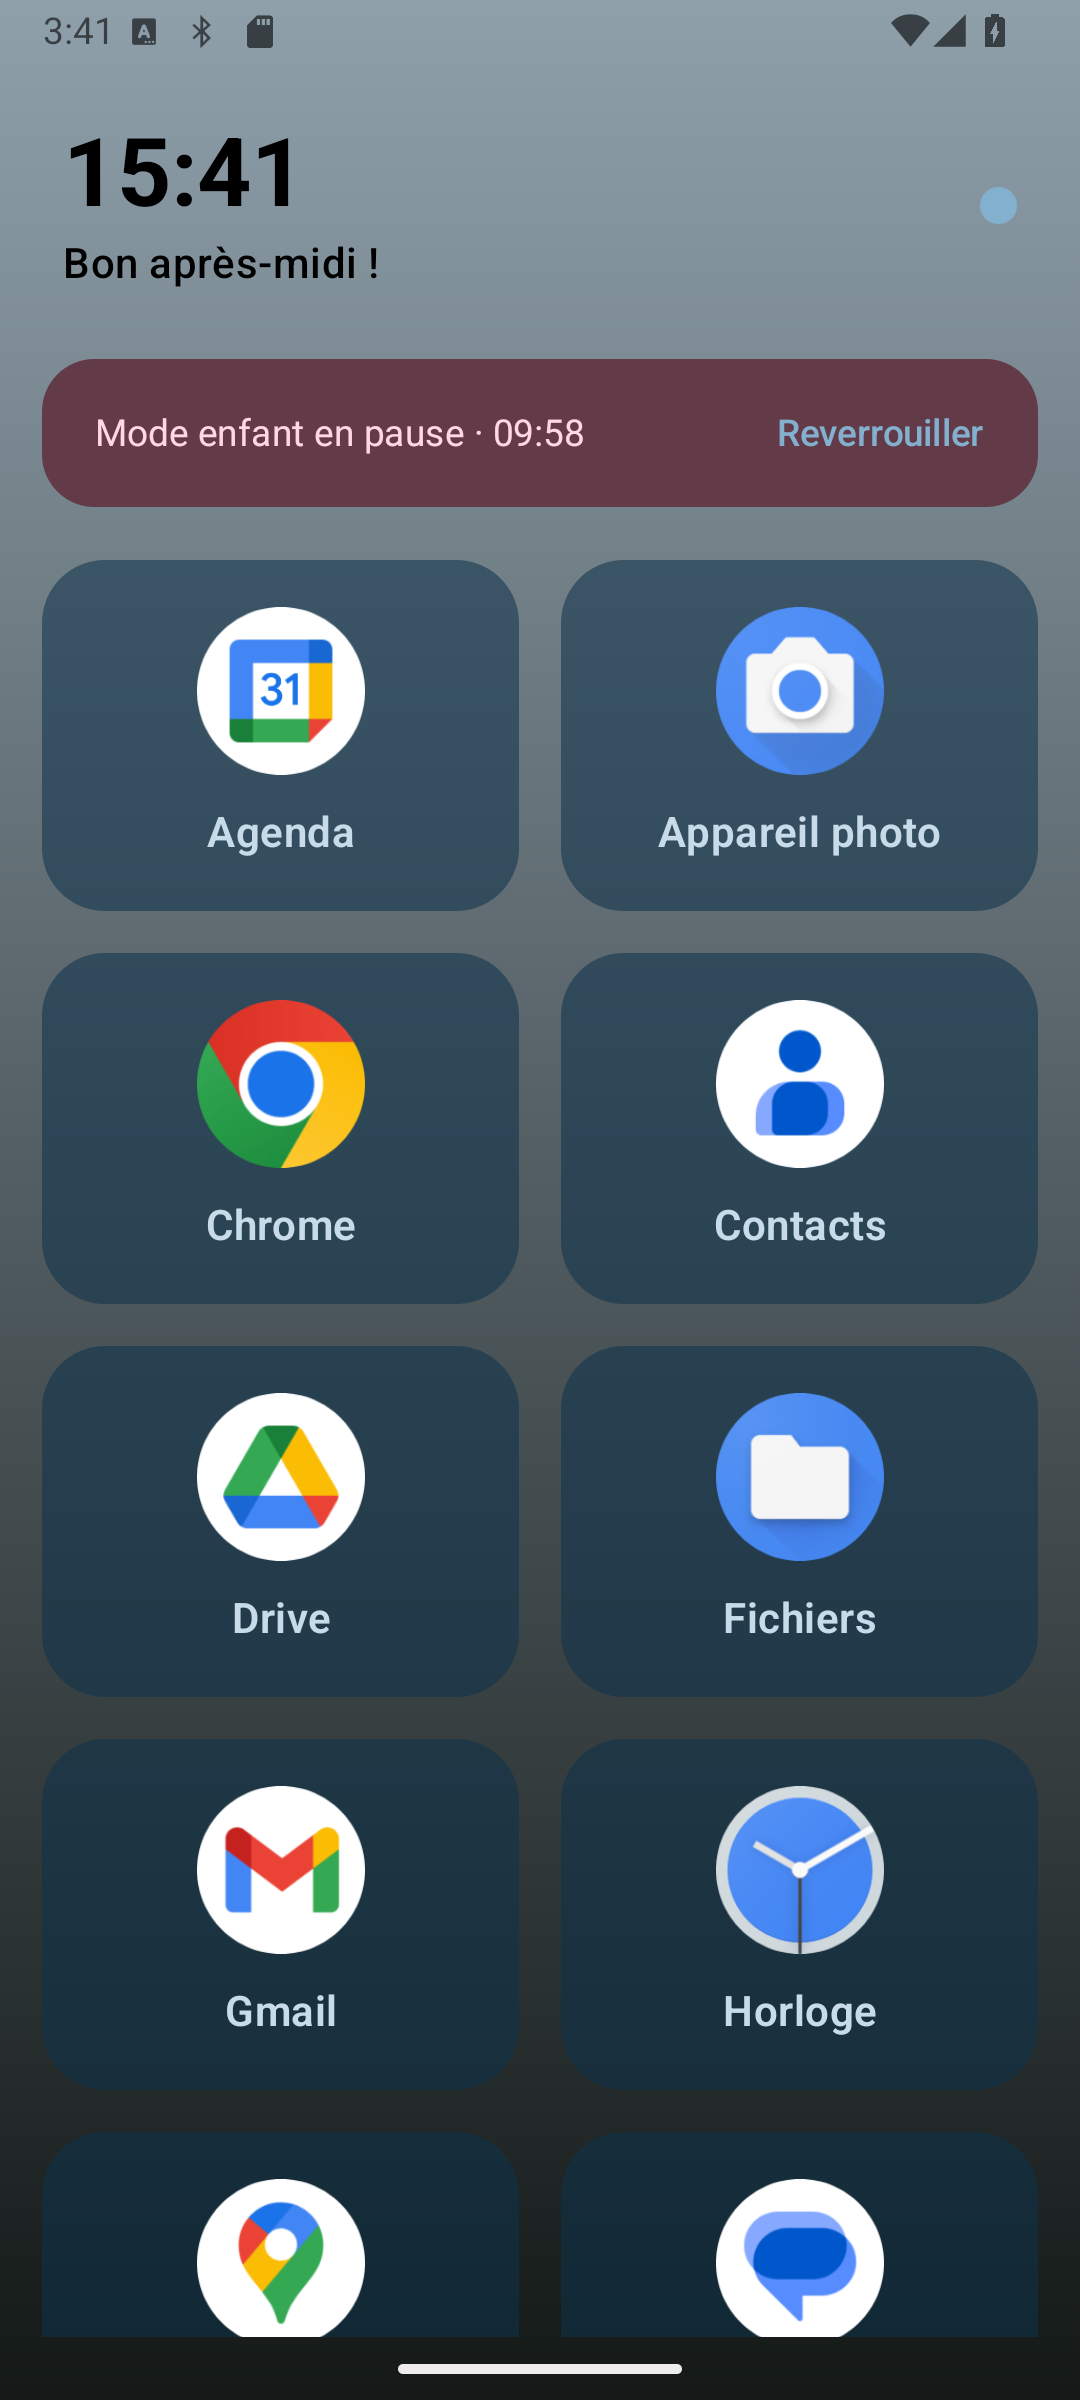
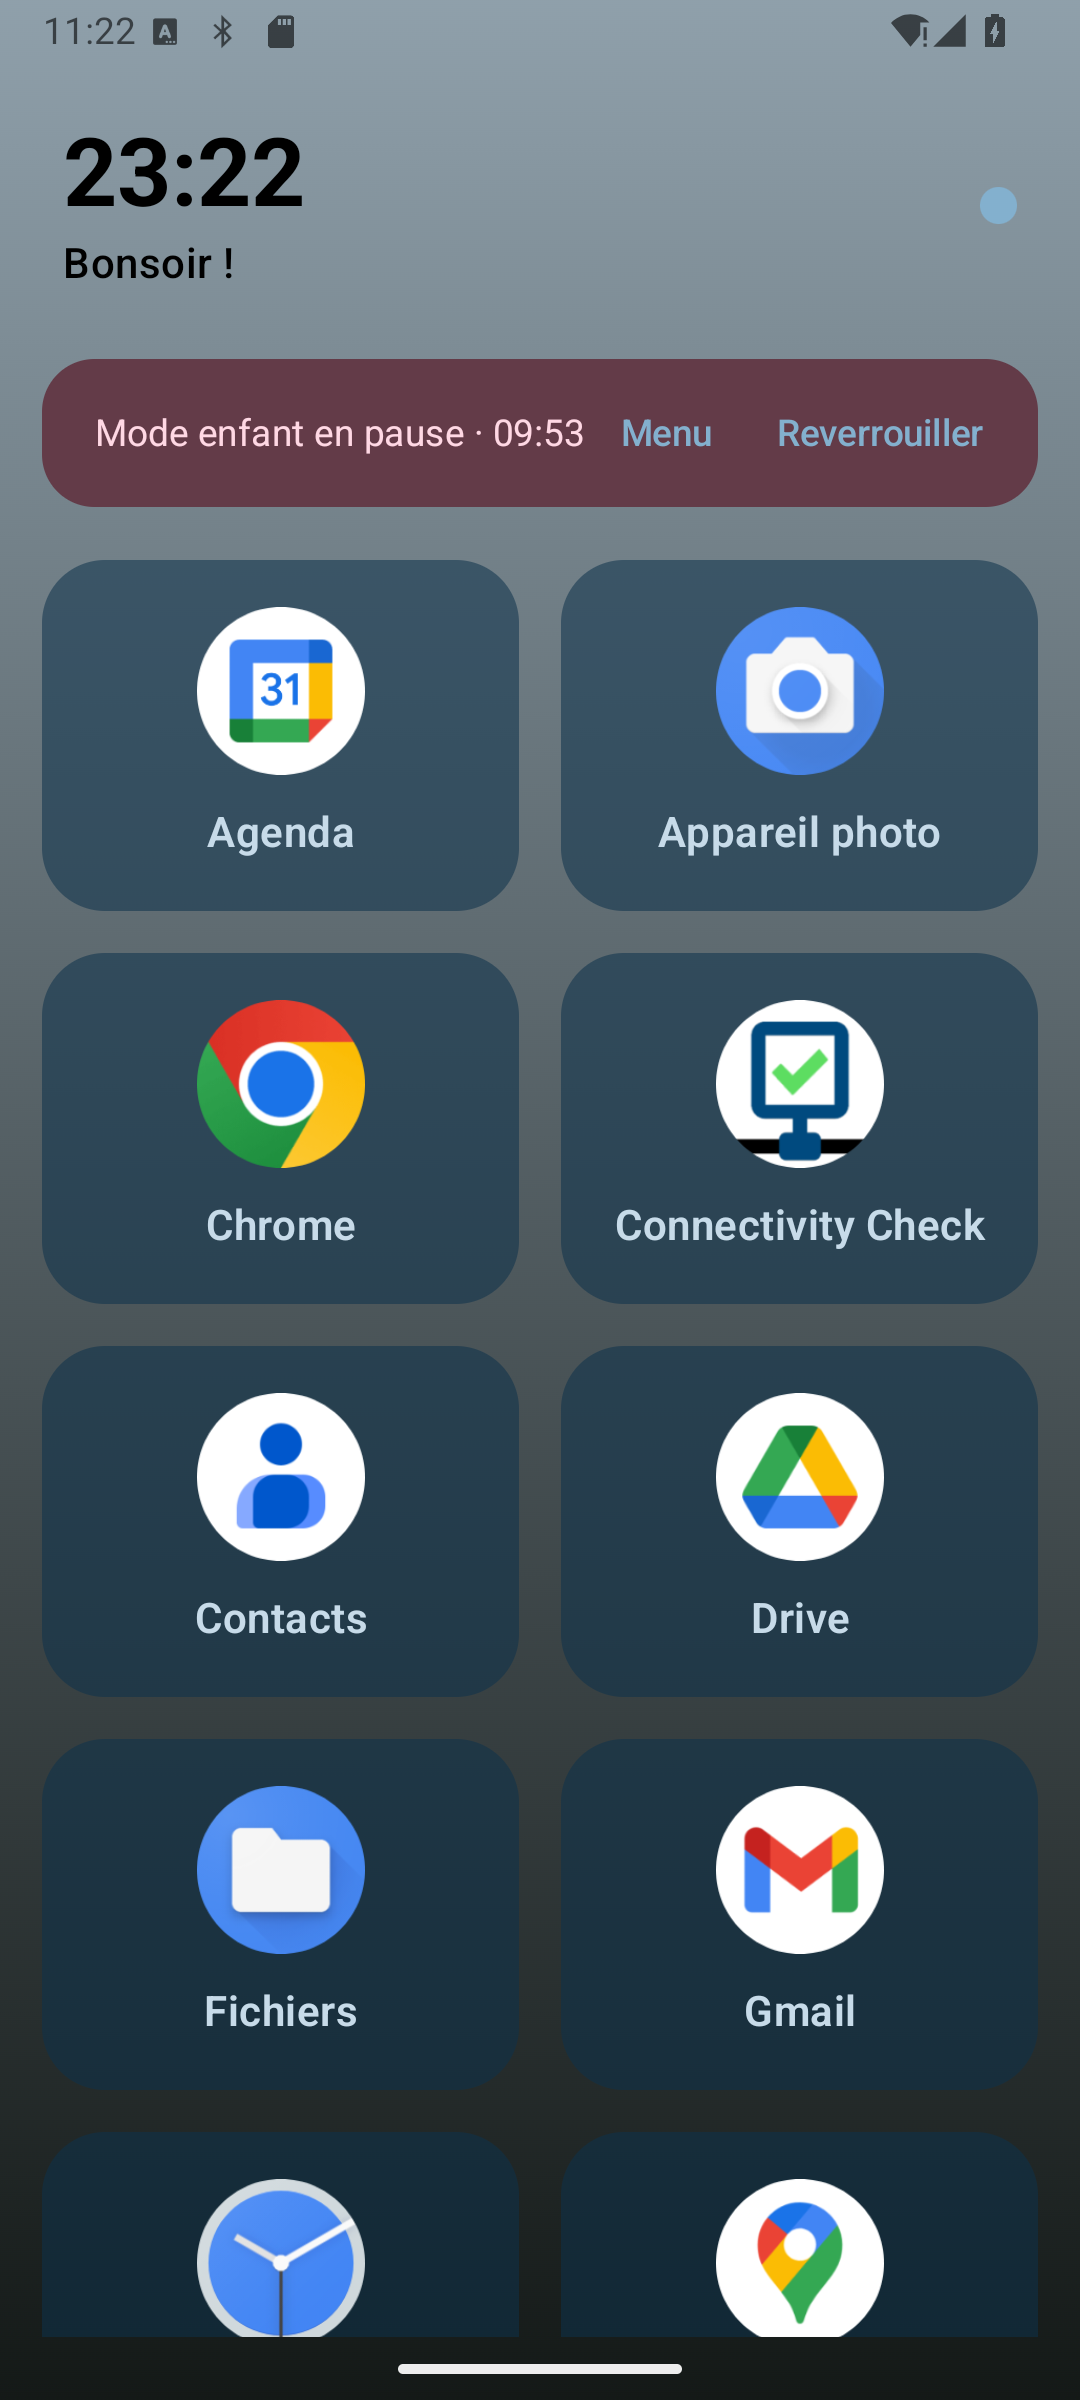
docs: cover content restrictions, per-app settings and the parent menu
The README stopped at the features that existed when it was written. It now
describes content restrictions and the phone-wide resolver, the settings form
built from an app's own declared managed configuration, the parent menu on the
child's phone, re-pairing by QR, and searching the Play Store by app name.

It also corrected a claim that had become false: child mode enables home and
recents on purpose now, so "Back and Home cannot escape it" was wrong. What
holds the child in is the allowlist, not the navigation bar — which is worth
saying accurately in a README about a parental-control tool.

Screenshots re-captured on the emulator rig, five of them new. Two layout bugs
showed up while capturing and are fixed here: the content level and the child
menu's rows both used SpaceBetween, so a value long enough to wrap ended up
flush against its label with no gap ("LevelModerate - block adult sites",
"Apps avec réglagescom.android.chrome").

diff --git a/app/src/main/java/edu/fnosari/momedm/activities/main/screens/DeviceScreen.kt b/app/src/main/java/edu/fnosari/momedm/activities/main/screens/DeviceScreen.kt
@@ -30,6 +30,7 @@ import androidx.compose.runtime.setValue
 import androidx.compose.ui.Alignment
 import androidx.compose.ui.Modifier
 import androidx.compose.ui.res.stringResource
+import androidx.compose.ui.text.style.TextAlign
 import androidx.compose.ui.unit.dp
 import androidx.navigation.NavHostController
 import edu.fnosari.momedm.R
@@ -131,7 +132,9 @@ fun DeviceScreen(navController: NavHostController, viewModel: ControllerViewMode
         Card(shape = RoundedCornerShape(16.dp), modifier = Modifier.fillMaxWidth()) {
             Column(Modifier.padding(16.dp), verticalArrangement = Arrangement.spacedBy(8.dp)) {
                 SectionLabel(stringResource(R.string.safety_section))
-                Row(Modifier.fillMaxWidth(), Arrangement.SpaceBetween) {
+                // The level's wording is a full sentence, so it wraps. SpaceBetween put the wrapped
+                // value flush against the label with no gap at all ("LevelModerate - block adult...").
+                Row(Modifier.fillMaxWidth(), Arrangement.spacedBy(12.dp)) {
                     Text(stringResource(R.string.safety_level))
                     Text(
                         stringResource(
@@ -141,6 +144,8 @@ fun DeviceScreen(navController: NavHostController, viewModel: ControllerViewMode
                                 else -> R.string.safety_off
                             },
                         ),
+                        modifier = Modifier.weight(1f),
+                        textAlign = TextAlign.End,
                     )
                 }
                 OutlinedButton(onClick = { editingSafety = true }, Modifier.fillMaxWidth()) {

diff --git a/app/src/main/java/edu/fnosari/momedm/activities/managed/screens/ChildMenuScreen.kt b/app/src/main/java/edu/fnosari/momedm/activities/managed/screens/ChildMenuScreen.kt
@@ -27,6 +27,7 @@ import androidx.compose.runtime.remember
 import androidx.compose.ui.Modifier
 import androidx.compose.ui.platform.LocalContext
 import androidx.compose.ui.res.stringResource
+import androidx.compose.ui.text.style.TextAlign
 import androidx.compose.ui.unit.dp
 import edu.fnosari.momedm.R
 import edu.fnosari.momedm.activities.managed.ManagedViewModel
@@ -159,10 +160,17 @@ fun ChildMenuScreen(vm: ManagedViewModel, onPause: () -> Unit) {
 /** Minutes since midnight as HH:mm. */
 private fun hhmm(minutes: Int): String = "%02d:%02d".format(minutes / 60, minutes % 60)
 
+/**
+ * One label/value row.
+ *
+ * The value takes the remaining width and is aligned right rather than pushed there by SpaceBetween:
+ * several values here are full sentences or lists of package names that wrap, and SpaceBetween left
+ * the wrapped text flush against its label with no gap ("NiveauModéré - sites adultes bloqués").
+ */
 @Composable
 private fun Line(label: String, value: String) {
-    Row(Modifier.fillMaxWidth(), Arrangement.SpaceBetween) {
+    Row(Modifier.fillMaxWidth(), Arrangement.spacedBy(12.dp)) {
         Text(label, style = MaterialTheme.typography.bodyMedium)
-        Text(value, style = MaterialTheme.typography.bodyMedium)
+        Text(value, style = MaterialTheme.typography.bodyMedium, modifier = Modifier.weight(1f), textAlign = TextAlign.End)
     }
 }

diff --git a/docs/images/README.md b/docs/images/README.md
@@ -7,18 +7,23 @@ is fully bilingual and that contrast is intentional.
 | File | Shows |
 |---|---|
 | `parent-children.png` | "My children" list: the connected child card, green presence dot, "Child mode off" badge, "+" add-device button. |
-| `parent-device.png` | Child detail page: status card and the full Night lock card with a realistic schedule — toggle ON, School nights 21:00→07:00, Friday/Saturday 22:00→08:00, state line "Locked until 7:00 AM". |
+| `parent-device.png` | Child detail page: status card and the full Night lock card — toggle ON, School nights 21:00→07:00, Friday/Saturday 22:00→08:00, state line "Locked until 7:00 AM", and the top of the Content card. |
+| `parent-content.png` | The Content card on a child's page: level, then Change / Choose allowed apps / Advanced app settings. |
+| `parent-content-dialog.png` | "Content restrictions" dialog: the three levels, the phone-wide filtering resolvers, and the note about what browser settings do and do not cover. |
+| `parent-app-picker.png` | "Which app?" — the single-choice list behind Advanced app settings. One tap opens that app's form; no tick boxes, no confirm. |
+| `parent-app-config.png` | A settings form built from Chrome's *own* declared managed configuration — nothing about these fields is hardcoded in this project. |
 | `parent-apps-picker.png` | "Allowed apps" dialog with 5 apps ticked (Agenda, Appareil photo, Chrome, Gmail, Horloge) and the "Keep to a single app" toggle visible above the list. |
 | `parent-time-picker.png` | The Material clock dialog opened from the School-nights start-time row (24h dial, Cancel/Save). |
 | `parent-settings.png` | Settings list: Appearance & language, Parent PIN, Advanced, plus Legal/Licenses/version footer. |
 | `parent-appearance.png` | Appearance & language screen with the "App colour" picker dialog open (8 accent swatches, one checked), Appearance: Dark visible behind it. |
 | `parent-pin.png` | Parent PIN screen in the "PIN already set" state (Change PIN / Remove PIN) — no digits shown. |
 | `parent-provision.png` | Provision screen after tapping "Show the code": steps 1–3 of the enrolment flow. **The QR code and Wi-Fi credentials are deliberately blurred** — that code carries the shared pairing secret. Keep them redacted in any re-capture. |
-| `child-launcher-allapps.png` | Kid launcher with child mode OFF: full app grid, big clock, "Bon après-midi !" greeting, connection dot. |
+| `child-launcher-allapps.png` | Kid launcher with child mode OFF: full app grid, big clock, time-of-day greeting, connection dot. |
 | `child-launcher-childmode.png` | Kid launcher with child mode ON: grid reduced to only the 5 parent-allowed apps. |
-| `child-bedtime.png` | Bedtime/complete-lock screen: clock at 21:30, "Bonne nuit !", "Déverrouillage à 07:00", no app tiles. Captured with the child clock moved into a 21:00→07:00 window. |
+| `child-bedtime.png` | Bedtime/complete-lock screen: "Bonne nuit !", "Déverrouillage à 07:00", no app tiles, and the explicit "Appel d'urgence" button. Captured inside a real 21:00→07:00 window. |
 | `child-pin-dialog.png` | "Code PIN parental" dialog opened by long-pressing the header clock/greeting area — empty input field. |
-| `child-paused.png` | Launcher showing the "Mode enfant en pause · MM:SS" banner with "Reverrouiller", after entering the correct parent PIN — apps unlocked again. |
+| `child-paused.png` | Launcher showing the "Mode enfant en pause" banner with "Menu" and "Reverrouiller" — during a pause every installed app is listed, not just the allowed ones. |
+| `child-parent-menu.png` | The parent menu on the child's phone: rules in force, the parent link, device facts, then Pause / Re-pair / Close. Reached by long-pressing the header and entering the PIN. |
 
 ## Notes for re-capture
 
@@ -31,7 +36,12 @@ is fully bilingual and that contrast is intentional.
 - To reach `child-paused.png`, long-press the child's header to open the PIN dialog, type
   the parent PIN, dismiss the on-screen keyboard state carefully — tapping "Déverrouiller"
   while the keyboard is still up works; using the back button first can dismiss the whole
-  dialog instead of just the keyboard.
+  dialog instead of just the keyboard. A correct PIN lands on the parent menu
+  (`child-parent-menu.png`); the pause itself is the button inside it.
+- Driving the child's long-press over adb needs a settle delay, or the swipe arrives before
+  the launcher has resumed and is swallowed:
+  `adb shell "input keyevent 3; sleep 0.6; input swipe 300 150 302 152 2500"`. The on-screen
+  keyboard also moves the PIN dialog's buttons — re-read their bounds after typing.
 
 ## Re-capturing
 

diff --git a/README.md b/README.md
@@ -43,13 +43,42 @@ a dependency.
 ### Choose which apps exist
 
 The parent picks the apps their child may use. Everything else is not on the home
-screen and cannot be launched — this is Android's lock task mode, so Back and
-Home cannot escape it. Optionally pin the child to **one single app**, useful
-when handing a phone over for a specific purpose.
+screen and cannot be launched — this is Android's lock task mode. Home and recents
+still work, so the phone feels ordinary, but they only ever lead back to the
+allowed apps: the allowlist, not the navigation bar, is what decides what can
+start. Optionally pin the child to **one single app**, useful when handing a
+phone over for a specific purpose.
 
 <div align="center">
 <img src="docs/images/parent-apps-picker.png" width="245" alt="Choosing which apps the child may use">
 <img src="docs/images/child-launcher-allapps.png" width="245" alt="The child's home screen with child mode off">
+</div>
+
+### Content restrictions, and per-app settings
+
+Three levels — off, moderate, strict — that turn on SafeSearch, Chrome's Safe
+Browsing, and YouTube's Restricted Mode, plus an optional family DNS resolver
+applied to the whole phone rather than to one browser. The dialog says plainly
+what each covers and what it does not: browser settings only reach Chrome, and the
+YouTube app ignores them, so without the phone-wide resolver YouTube is
+unfiltered. Restricted Mode hides most mature content, not all of it.
+
+<div align="center">
+<img src="docs/images/parent-content-dialog.png" width="245" alt="Choosing a content-restriction level and a filtering resolver">
+<img src="docs/images/parent-content.png" width="245" alt="The content section of a child's page">
+</div>
+
+Underneath that sits a general escape hatch. Many apps declare their own
+**managed configuration** — Chrome declares hundreds of settings — and the app
+reads whatever an app declares on the child's phone and builds a form from it.
+Nothing about those settings is hardcoded here: switches, choices, numbers, text,
+groups of fields and repeatable lists of groups are all rendered from the app's
+own schema, so an app this project has never heard of can still be configured.
+Anything a form cannot represent is listed as not editable rather than hidden.
+
+<div align="center">
+<img src="docs/images/parent-app-picker.png" width="245" alt="Choosing which app to configure">
+<img src="docs/images/parent-app-config.png" width="245" alt="A form built from Chrome's own declared settings">
 </div>
 
 ### A home screen built for a child
@@ -85,7 +114,9 @@ answer — so a missed alarm or a changed clock cannot strand it in the wrong st
 
 Type the parent PIN on the child's phone and the lock pauses for ten minutes —
 enough to check something or deal with an exception — then it re-locks itself.
-The parent can end the pause early.
+During the pause the phone is genuinely unrestricted: every installed app is on
+the home screen and launchable, not just the allowed ones. Either side can end the
+pause early.
 
 <div align="center">
 <img src="docs/images/child-paused.png" width="245" alt="The child's phone during a ten-minute pause">
@@ -96,10 +127,28 @@ The PIN is hashed (PBKDF2-HMAC-SHA256, 20 000 iterations, per-device salt) on th
 parent's phone before it is ever sent; the child's phone stores and compares only
 the hash. Wrong guesses trigger a lockout that grows and survives killing the app.
 
+### A parent menu on the child's phone
+
+The same PIN opens a menu on the child's phone that answers "why is this phone
+behaving like this?" — the rules actually in force, whether the parent's phone is
+in range, which parent it is paired to, and what the device is. Everything is read
+from the child's own storage, so it still answers when the parent is nowhere near.
+
+From there a parent can pause child mode, or re-pair the phone to a different
+parent by scanning a fresh code — the way back if the parent's phone is lost,
+replaced, or reinstalled.
+
+<div align="center">
+<img src="docs/images/child-parent-menu.png" width="245" alt="The parent menu on the child's phone">
+</div>
+
 ### The parent's view
 
 Which apps are allowed, what the child is using right now, battery, when the
 phone was last seen, whether it is locked — with the controls to change any of it.
+Installing something new is done by name rather than by package id: type "Minecraft"
+and the child's Play Store opens on that search, so a parent never has to know
+what `com.mojang.minecraftpe` is.
 
 <div align="center">
 <img src="docs/images/parent-children.png" width="245" alt="The list of children">
